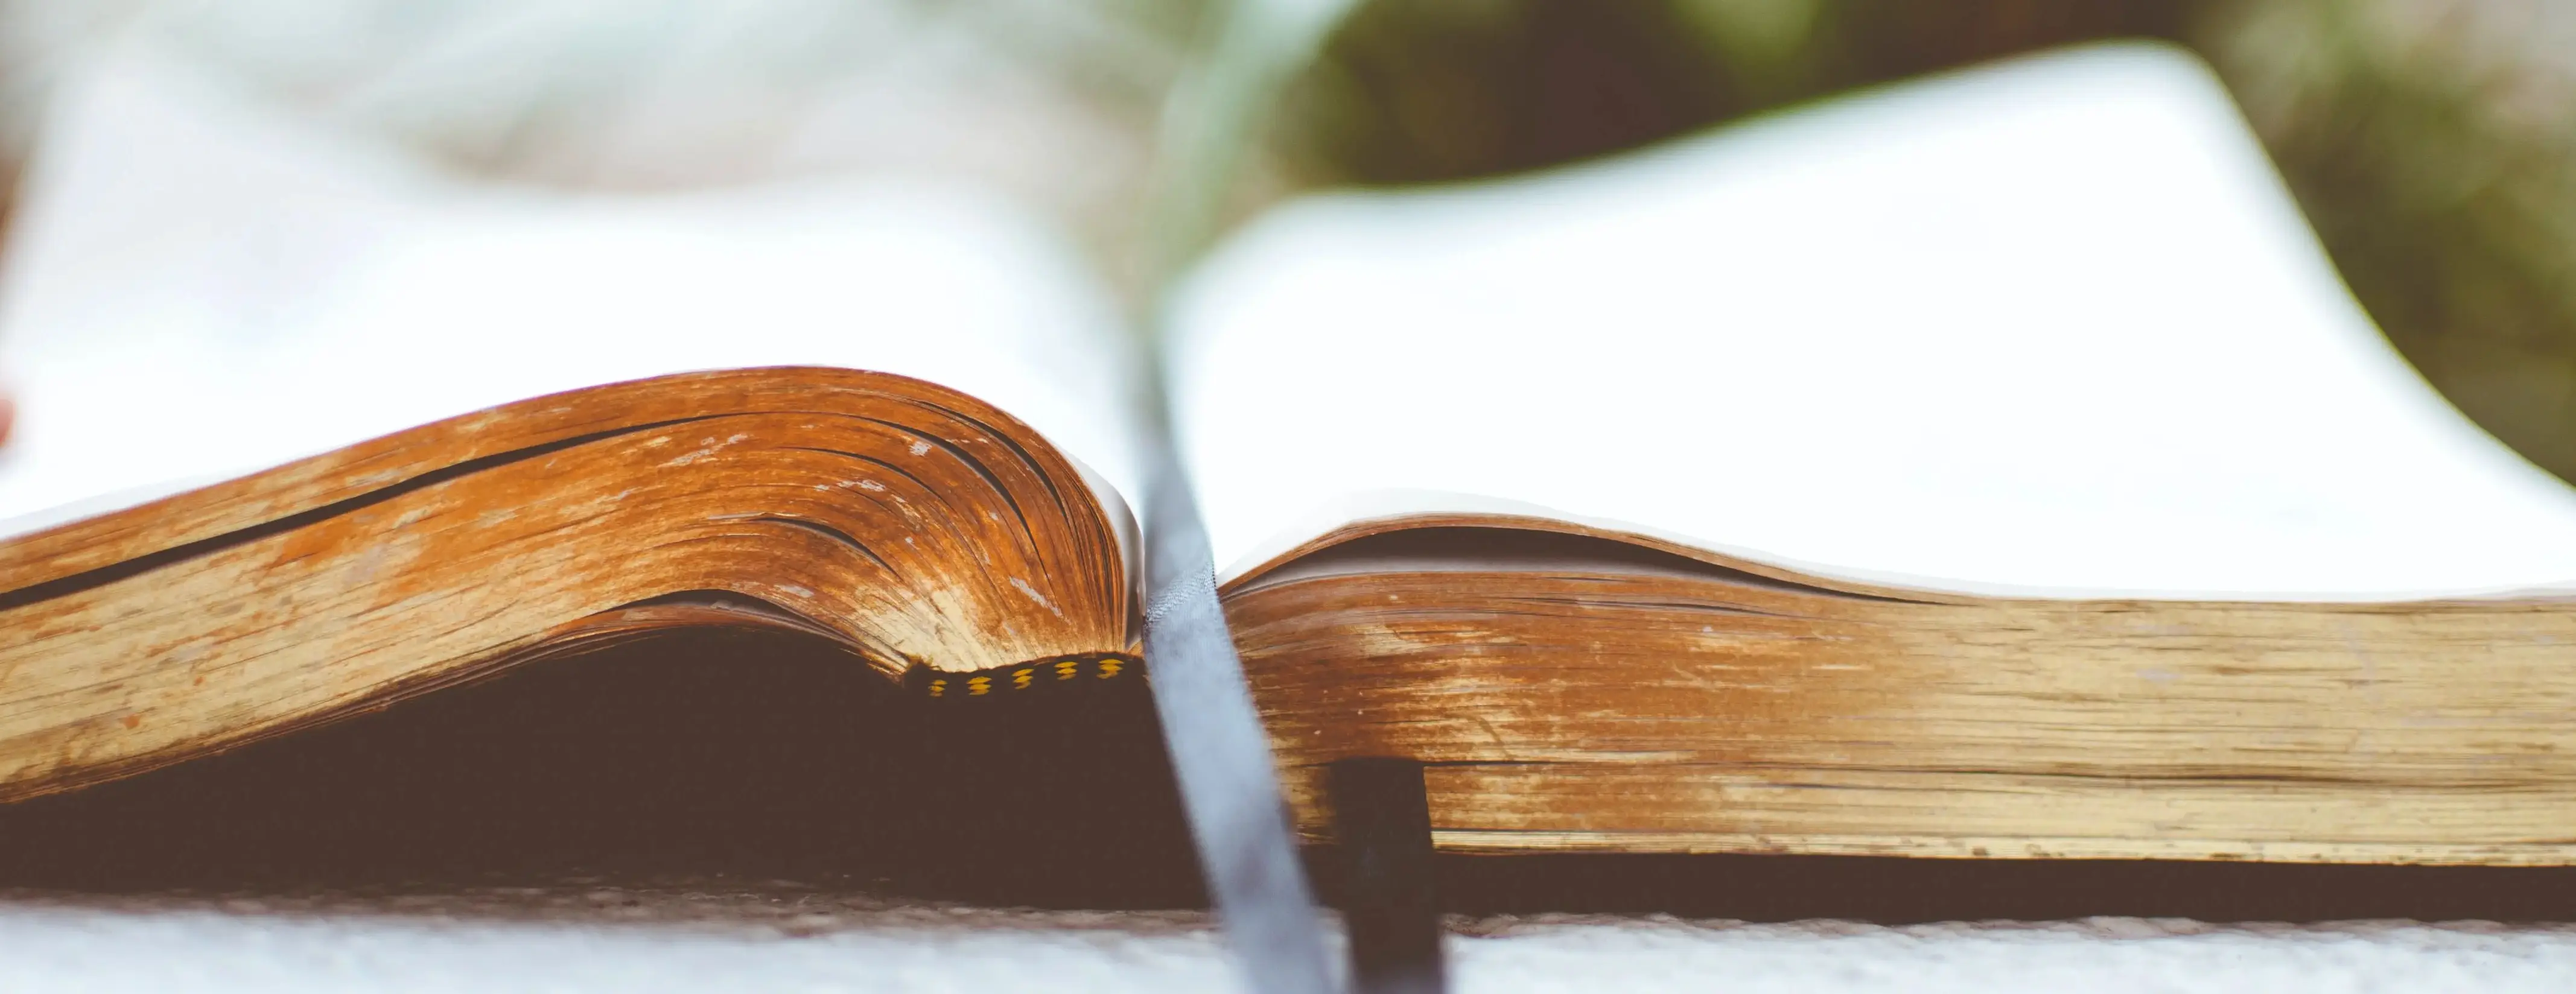
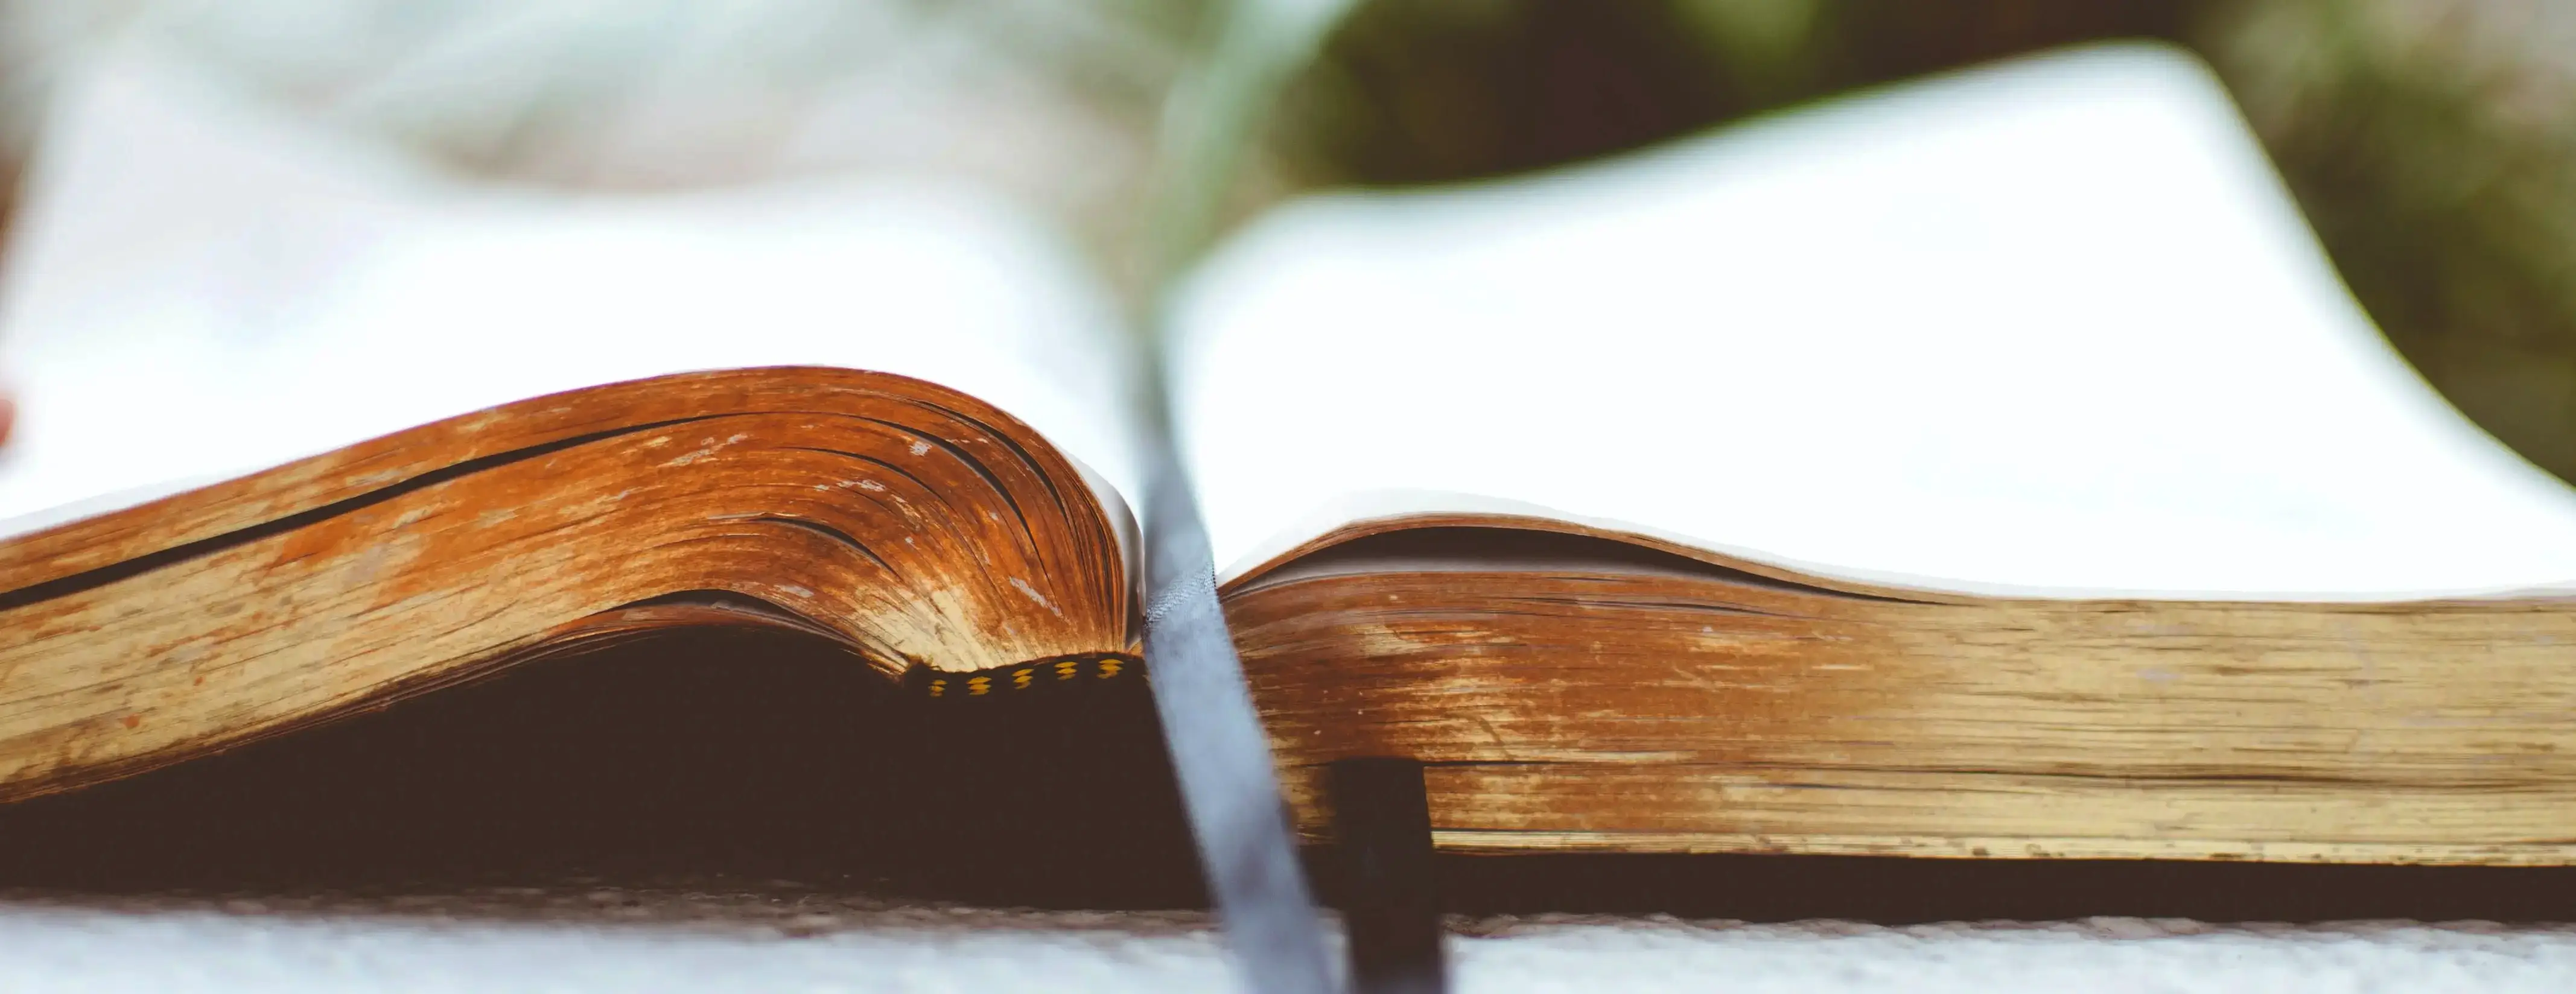
conver to webp, close #20

diff --git a/404.html b/404.html
@@ -9,7 +9,7 @@ hide: true
 
 Oops - Sie wollten eine Seite, die es leider nicht gibt...
 
-<img src="/images/ugly-404.png"/>
+<img src="/images/ugly-404.webp"/>
 
 Bitte sagen Sie mir Bescheid, damit ich das korrigieren kann:
 <a href="xmxaxixlxtxo:hxrxuxsxcxhxkxax@xbx-xaxgxixlxex.de" onmouseover="this.href=this.href.replace(/x/g,'');">Email (geschützt)</a>.

diff --git a/_posts/2022-01-01-scope-ist-nicht-gleich-scope.md b/_posts/2022-01-01-scope-ist-nicht-gleich-scope.md
@@ -9,7 +9,7 @@ excerpt: 'Sicherlich kennen Sie die weißen Linien am Tennisplatz rund um das Sp
 Sicherlich kennen Sie die weißen Linien am Tennisplatz rund um das Spielfeld. Sie legen fest, ob ein Ball „in“ oder „out“ ist. Das sollten Sie auch für Ihr Projekt oder Ihre Produktentwicklung wissen, ob ein Thema „in Scope“ oder „out of Scope“ ist. Beginnen wir mit zwei einfachen Definitionen: Scope ist der Bereich, in dem Sie als Product Owner freie Entscheidungen treffen dürfen (vgl. Abb. 1). Im Kontext liegen Nutzergruppen, Nachbarabteilungen oder Nachbarsysteme. Änderungen an Schnittstellen zu diesen können Sie meist nicht alleine entscheiden, sondern müssen sie mit den dafür Zuständigen verhandeln. Dinge im Kontext liegen also außerhalb Ihres direkten Einflussbereiches.
 
 <figure>
-  <img class="max800" src="/images/blog/Abb.-3-1.png"/>
+  <img class="max800" src="/images/blog/Abb.-3-1.webp"/>
   <figcaption>Abb. 1: Scope und Kontext</figcaption>
 </figure>
 
@@ -18,7 +18,7 @@ Produktscope und Projektscope
 Wenn man von Produkt oder System spricht, ist meist ein IT-Produkt oder ein IT-System gemeint. Sollte Ihre Aufgaben also darin bestehen, ein (einziges) neues IT-System zu schaffen, so sind Produktscope und Projektscope identisch. In der Praxis betreffen Projekte manchmal auch mehrere vorhandene IT-Systeme. Möglicherweise müssen Sie ein System neu entwickeln oder kräftig modifizieren, und im Rahmen dessen auch notwendige Anpassungen anderer IT-Systeme gleich mit erledigen (siehe Abb. 2).
 
 <figure>
-  <img class="max800" src="/images/blog/Abb.-3-2.png"/>
+  <img class="max800" src="/images/blog/Abb.-3-2.webp"/>
   <figcaption>Abb. 2: Projektscope vs. Produktscope</figcaption>
 </figure>
 
@@ -30,7 +30,7 @@ Nutzen Sie in einer für die Scopefestlegung Ihres Projektes eine visuelle Gesam
 Zur Festlegung der Grenze zwischen Scope und Kontext reicht anfangs die Betrachtung der ein- und ausgehenden Daten Ihres Systems. Die klassische Darstellungsweise dafür ist ein sogenanntes „fachliches Kontextdiagramm“, [1], wie Sie es als Beispiel für einen Bordcomputer eines PKWs in Abbildung 3 sehen. Das System soll den Fahrer mit typischen Informationen wie Durchschnittsgeschwindigkeit, Treibstoffverbrauch, Außentemperatur, etc. versorgen, wie auch Navigation ermöglichen, einen Tempomaten zur Verfügung stellen, Wartungsintervalle überwachen und den Fahrer über Radiosender und Telefonanrufe informieren.
 
 <figure>
-  <img class="max800" src="/images/blog/Abb.-3-3.png"/>
+  <img class="max800" src="/images/blog/Abb.-3-3.webp"/>
   <figcaption>Abb. 3: Kontextdiagramm mit Ein- und Ausgaben des Systems</figcaption>
 </figure>
 
@@ -40,7 +40,7 @@ Falls Sie übrigens Diagramme nicht mögen, so schlägt [1] eine ganze Menge an 
 Falls Sie auf die grafische Variante stehen: Die UML bietet Ihnen viele Möglichkeiten, Schnittstellen genauer festzulegen. Abb. 5 zeigt zu obigem Beispiel jetzt die Verwendung von Ball- und Socket-Notation, bzw. die Einführung von Ports.
 
 <figure>
-  <img class="max600" src="/images/blog/Abb.-3-4.png"/>
+  <img class="max600" src="/images/blog/Abb.-3-4.webp"/>
   <figcaption>Abb. 4: Notation für Schnittstellendetails</figcaption>
 </figure>
 
@@ -56,7 +56,7 @@ Bisher haben wir eher über die „Mechanik“ der Festlegung der Scope-Abgrenzu
 Gründliche Requirements-Methoden unterscheiden zwischen Business-Scope und Produktscope: Der Business-Scope ist der Bereich Ihres Unternehmens oder Organisation, in dem Sie im Zuge Ihrer Software- oder Systementwicklung Entscheidungen treffen oder vorschlagen dürfen, also beispielsweise Ihr Fachbereich oder Ihre Abteilung. Normalerweise ist der Business-Scope um einiges größer als der Produktscope, weil Sie vielleicht nicht alles, was in Ihren Entscheidungsbereich fällt, auch automatisieren wollen. Sie können also in Zusammenarbeit zwischen Product Owner und Entwicklungsteam festlegen, welche Teile von Geschäftsprozessen automatisiert und welche Schritte vielleicht noch längere Zeit manuell durchgeführt werden sollen. Für erfahrene User Story-Experten: Das „N“ von INVEST steht für „negotiable“. Sie sollten also zunächst Ihren Business Scope kennen und dann verhandeln, welche Teile Ihrer Geschäftsprozesse früher oder später in den Product Scope kommen.
 
 <figure>
-  <img class="max800" src="/images/blog/Abb.-3-5.png"/>
+  <img class="max800" src="/images/blog/Abb.-3-5.webp"/>
   <figcaption>Abb. 5: Business- und Produktscope</figcaption>
 </figure>
 

diff --git a/_pages/05-about.md b/_pages/05-about.md
@@ -3,14 +3,14 @@ title: Über uns
 layout: splash
 permalink: /ueber-uns
 header:
-    overlay_image: /images/headers/about_header.jpg
+    overlay_image: /images/headers/about_header.webp
     caption: "Photo credit: [**Unsplash**](https://unsplash.com)"
     overlay_filter: rgba(0, 0, 0, 0.6)
 excerpt: "Wir haben uns über [den IREB](https://www.ireb.org/de) kennen und schätzen gelernt und arbeiten seither gemeinsam an unserer Herzensangelegenheit **„Agiles Requirements Engineering“**."
 
 peter:
 - title: "Dr. Peter Hruschka"
-  image_path: images/about/PeterHruschka.png
+  image_path: images/about/PeterHruschka.webp
   excerpt: "Seit mehr als 40 Jahren als Missionar in Sachen *gutes Software- und System-Engineering* unterwegs. 
   Partner der [Atlantic Systems Guild](https://systemsguild.eu/), Fellow von [Agile Experts](https://agile-experts.ch/), 
   Gründer von [arc42](https://www.arc42.de/), dem Portal für Software-Architekten und Gründungsmitglied des [IREB](https://www.ireb.org/de). 
@@ -18,7 +18,7 @@ peter:
 
 markus:
 - title: "Markus Meuten"
-  image_path: images/about/MarkusMeuten.png
+  image_path: images/about/MarkusMeuten.webp
   excerpt: "Geschäftsführer der [Agile Experts](https://agile-experts.ch/), Product Owner für das IREB Projekt „RE@Agile“
   und Co-Autor des Curriculums des RE@Agile-Primers und des Advanced Levels „RE@Agile“. 
   Mit Agile Experts seit Jahren unterwegs, um Unternehmen bei der Umstellung auf agile Methoden zu unterstützen. 
@@ -26,7 +26,7 @@ markus:
 
 dirk:
 - title: "Dirk Fritsch"
-  image_path: images/about/DirkFritsch.png
+  image_path: images/about/DirkFritsch.webp
   excerpt: "Dirk ist zertifizierter und erfahrener [Scrum Master](https://www.scrum.org/), Product Owner sowie Requirements/Demand Spezialist.
   Vom Scrum Erfinder Jeff Sutherland und der Atlantic Systems Guild im Bereich Requirements Engineering ausgebildet, 
   gibt Dirk sein Wissen in Trainings und Workshops mit fundierten Fach- und Praxiskenntnissen weiter. 

diff --git a/_pages/01-framework.md b/_pages/01-framework.md
@@ -3,7 +3,7 @@ title: req42 im Überblick
 layout: splash
 permalink: /req42-im-ueberblick
 header:
-    overlay_image: /images/headers/framework_header.png
+    overlay_image: /images/headers/framework_header.webp
     overlay_filter: rgba(0, 0, 0, 0.6)
 ---
 
@@ -28,7 +28,7 @@ Denn:
 
 Die folgende Abbildung zeigt Ihnen das *„Universum des Product Owners“* von req42. Als *„Leitstern“* in der Mitte steht natürlich der Product Backlog als wichtigstes Artefakt, mit dem Sie sicherlich die meiste Zeit verbringen werden. Aber rundherum kreisen viele andere Artefakte, die Sie in Ihrer Rolle als Produkt-Owner aus Managementsicht oder aus Requirements-Sicht ernst nehmen sollten.
 
-![](/images/framework/universe.png)<br><br>
+![](/images/framework/universe.webp)<br><br>
 Die 
 <span style="color:blue"> blauen </span> 
 Himmelskörper sind die eher requirements-orientierten Ergebnisse, 
@@ -43,7 +43,7 @@ Planet stellt die Zwischenergebnisse Ihres Entwicklungsteams dar (die laufend ge
 
 Diese Ergebnisse, deren Aufbau, ihre Verwaltung und Pflege stehen im Mittelpunkt unserer Betrachtungen. Als didaktische Hilfsmittel haben wir aber auch die sechs Hauptaktivitäten eines Product Owners benannt, die im folgenden Bild dargestellt sind.
 
-![](/images/framework/fw-2.png)<br><br>
+![](/images/framework/fw-2.webp)<br><br>
 An den Doppelpfeilen zwischen den Tätigkeiten sehen Sie, dass Sie in der Rolle als Produkt Owner ständig mit all diesen Tätigkeiten befasst sind und beliebig zwischen den einzelnen Tätigkeiten wechseln können. Sie dienen nur der besseren Lehrbarkeit und Vermittelbarkeit.  
 
 req42 ist prozess-agnositisch. Es gibt keinen vorgeschriebenen Prozess, den Sie einhalten müssen. Wir empfehlen natürlich einen agilen Prozess, bei dem nur die Anforderungen detailliert ausgearbeitet werden, die demnächst für die Umsetzung als Produkt-Inkrement gebraucht werden.

diff --git a/_posts/2022-01-01-does-notation-matter-one.md b/_posts/2022-01-01-does-notation-matter-one.md
@@ -22,14 +22,14 @@ In this blog I want to examine whether the way of expressing requirements, i.e. 
 Let us contrast high level requirements for a hypothetical children swimming league, that wants to automate its manual processes by creating an IT-system nicknamed AQUARIUS. A use-case diagram could look like this:
 
 <figure>
-  <img class="max800" src="/images/blog/doesNotationMatter.png"/>
+  <img class="max800" src="/images/blog/doesNotationMatter.webp"/>
   <figcaption>Figure 1: The use cases of AQUARIUS</figcaption>
 </figure>
 
 Now, is it really necessary to use that old fashioned graphic notation, invented in 1992 by Ivar Jacobson – at a time when many of today’s developers were not yet born or in their infancy? Would not a simple list of functions also do the job. Look at the following write-up:
 
 <figure>
-  <img class="max500" src="/images/blog/doesNotationMatter2.png"/>
+  <img class="max500" src="/images/blog/doesNotationMatter2.webp"/>
   <figcaption>Figure 2: A list of AQUARIUS functionality</figcaption>
 </figure>
 
@@ -38,7 +38,7 @@ We have chosen slightly different names for the functions (e.g. Update Figure Ca
 Yet another alternative would be to start creating a story map. In the following figure we just give the overview of the epics and features (since they are too big to be considered as stories yet).
 
 <figure>
-  <img src="/images/blog/doesNotationMatter3.png"/>
+  <img src="/images/blog/doesNotationMatter3.webp"/>
   <figcaption>Figure 3: The beginning of an AQUARIUS story map</figcaption>
 </figure>
 

diff --git a/_posts/2022-01-01-does-notation-matter-two.md b/_posts/2022-01-01-does-notation-matter-two.md
@@ -23,14 +23,14 @@ Let us start with two different kinds of textual specifications (always concentr
 For those of you, who like to phrase all requirements as stories, let me rewrite the three statements as story cards (as refinement of the big story above):
 
 <figure>
-  <img class="max800" src="/images/blog/doesNotationMatter6.png"/>
+  <img class="max800" src="/images/blog/doesNotationMatter6.webp"/>
   <figcaption>Fig 1: Refined Story Cards</figcaption>
 </figure>
 
 If you are a child of the 80s you have probably learned to specify these process steps in form of a dataflow diagram, showing the key functions and their inputs and outputs, as well as stored data. Here is a way of specifying the above mentioned process:
 
 <figure>
-  <img class="max800" src="/images/blog/doesNotationMatter4.png"/>
+  <img class="max800" src="/images/blog/doesNotationMatter4.webp"/>
   <figcaption>Fig. 2: Enrolment as dataflow diagram</figcaption>
 </figure>
 
@@ -39,7 +39,7 @@ For those of you not familiar with the notation I have included a short legend. 
 If you were born a little bit later and got your education in the 90s, when UML was the dominant notation, you would probably draw the process as an activity diagram as shown below.
 
 <figure>
-  <img class="max800" src="/images/blog/doesNotationMatter5.png"/>
+  <img class="max800" src="/images/blog/doesNotationMatter5.webp"/>
   <figcaption>Fig. 3: Enrolment as activity diagram</figcaption>
 </figure>
 

diff --git a/_pages/00-home.md b/_pages/00-home.md
@@ -3,7 +3,7 @@ title: req42
 layout: splash
 permalink: /
 header:
-  overlay_image: /images/headers/home_header.jpeg
+  overlay_image: /images/headers/home_header.webp
   overlay_filter: rgba(0, 0, 0, 0.6)
   actions:
   - label: "&#8594; English site"
@@ -21,7 +21,7 @@ feature_row:
   excerpt: "In unseren Seminaren bringen wir Ihnen als Product-Owner oder agile Requirements Engineers das notwendige Handwerkszeug bei. <br> <br> 
             Live oder online – vereinbaren Sie Termine mit uns!"
 - title: "<center> <small> Peter Hruschka & Markus Meuten </small></center>"
-  excerpt: "![](/images/home/peter_markus.png)<br> Als agiles Duo zeigen wir Ihnen bei öffentlichen Seminaren agiles Requirements Engineering aus verschiedenen Blickwinkeln."
+  excerpt: "![](/images/home/peter_markus.webp)<br> Als agiles Duo zeigen wir Ihnen bei öffentlichen Seminaren agiles Requirements Engineering aus verschiedenen Blickwinkeln."
 - title: "Coaching"
   url: "/coaching"
   btn_label: "Mehr dazu"

diff --git a/_posts/2022-01-01-universum-des-product-owners.md b/_posts/2022-01-01-universum-des-product-owners.md
@@ -16,7 +16,7 @@ Natürlich ist das Product Backlog das wichtigste Artefakt zum Managen von Anfor
 Um Ihnen als Product Owner die Gesamtheit der von Ihnen zu verwaltenden Dinge (neudeutsch: Artifacts) aufzuzeigen haben wir als Metapher das Universum gewählt, oder besser den Teil des Universums, der Sie als Product Owner betrifft. Im Zentrum Ihres Universums steht der Product Backlog als eines Ihrer wichtigsten Arbeitsinstrumente. Um dieses Zentrum herum kreisen jedoch viele andere Artefakte, die agiles Requirements Engineering erst erfolgreich machen (vgl. Abb. 1).
 
 <figure>
-  <img class="max800" src="/images/blog/PO-Universe.jpeg"/>
+  <img class="max800" src="/images/blog/PO-Universe.webp"/>
   <figcaption>Abb. 1: Das Universum des Product Owners</figcaption>
 </figure>
 

diff --git a/_posts/2022-01-01-requirements-modeling-then-and-now.md b/_posts/2022-01-01-requirements-modeling-then-and-now.md
@@ -30,7 +30,7 @@ In parallel to the growth of agile requirements engineering more graphical notat
 
 The following picture summarizes my personal estimate about the use of textual or graphical notations over the last five decades.
 <figure>
-  <img src="/images/blog/Malen-oder-Schreiben.jpeg"/>
+  <img src="/images/blog/Malen-oder-Schreiben.webp"/>
   <figcaption>Dominant Requirements Style over 5 decades</figcaption>
 </figure>
 

diff --git a/_pages/seminars/01-mastering-agile.md b/_pages/seminars/01-mastering-agile.md
@@ -3,7 +3,7 @@ title: Mastering Agile Requirements
 layout: splash
 permalink: /masteringagile
 header:
-    overlay_image: /images/headers/masteringagile_header.jpeg
+    overlay_image: /images/headers/masteringagile_header.webp
     overlay_filter: rgba(0, 0, 0, 0.6)
 excerpt: "Ein 3-tägiger Workshop zur Einführung in das [agile Framework req42](/req42-im-ueberblick) vom agilen Duo Peter Hruschka und Markus Meuten"
 

diff --git a/_pages/seminars/05-geschaeftsbedingungen.md b/_pages/seminars/05-geschaeftsbedingungen.md
@@ -3,7 +3,7 @@ title: Allgemeine Geschäftsbedingungen für Seminare
 layout: splash
 permalink: /geschaeftsbedingungen
 header:
-    overlay_image: images/headers/geschaeftsbedingungen.jpg
+    overlay_image: images/headers/geschaeftsbedingungen.webp
     overlay_filter: rgba(0, 0, 0, 0.6)
     caption: "Photo credit: [**Unsplash**](https://unsplash.com)"
 ---

diff --git a/_pages/seminars/02-requirements-grundlagen.md b/_pages/seminars/02-requirements-grundlagen.md
@@ -3,7 +3,7 @@ title: Requirements-Grundlagen (Powerkurs)
 layout: splash
 permalink: /requirements-grundlagen
 header:
-    overlay_image: images/headers/req_grundlagen_header.jpeg
+    overlay_image: images/headers/req_grundlagen_header.webp
     overlay_filter: rgba(0, 0, 0, 0.6)
 excerpt: "Ein 2-tägiger Power-Workshop
 von Markus Meuten und Peter Hruschka
